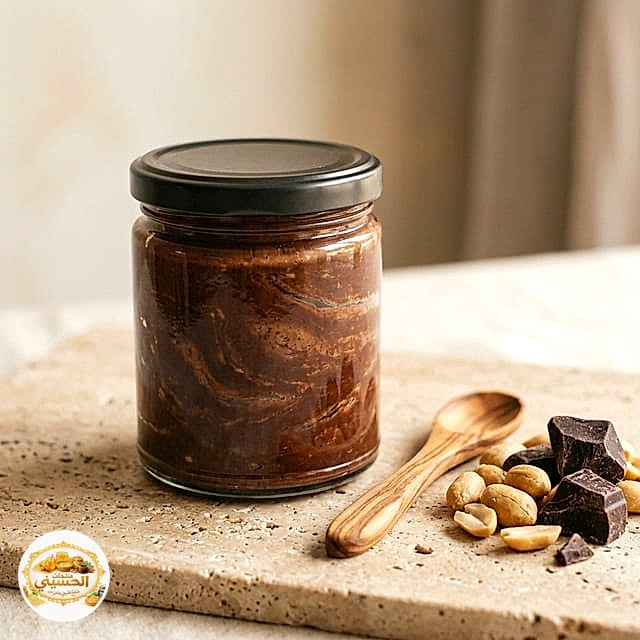
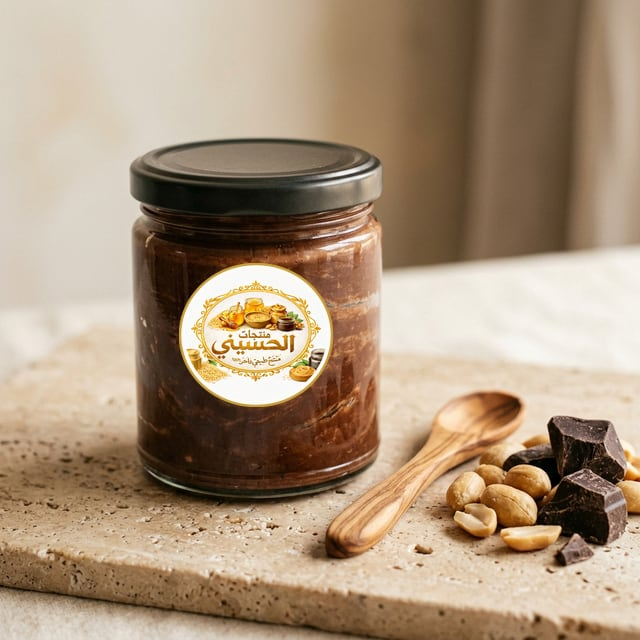
Place Elhusseiny printed label directly on product jars/bowls

diff --git a/src/lib/products.ts b/src/lib/products.ts
@@ -79,7 +79,7 @@ export async function getActiveProducts(): Promise<Product[]> {
 
 function withCacheBust(url: string): string {
   if (url.startsWith("/images/products/") && !url.includes("?")) {
-    return `${url}?v=20261127`;
+    return `${url}?v=20261127b`;
   }
   return url;
 }
